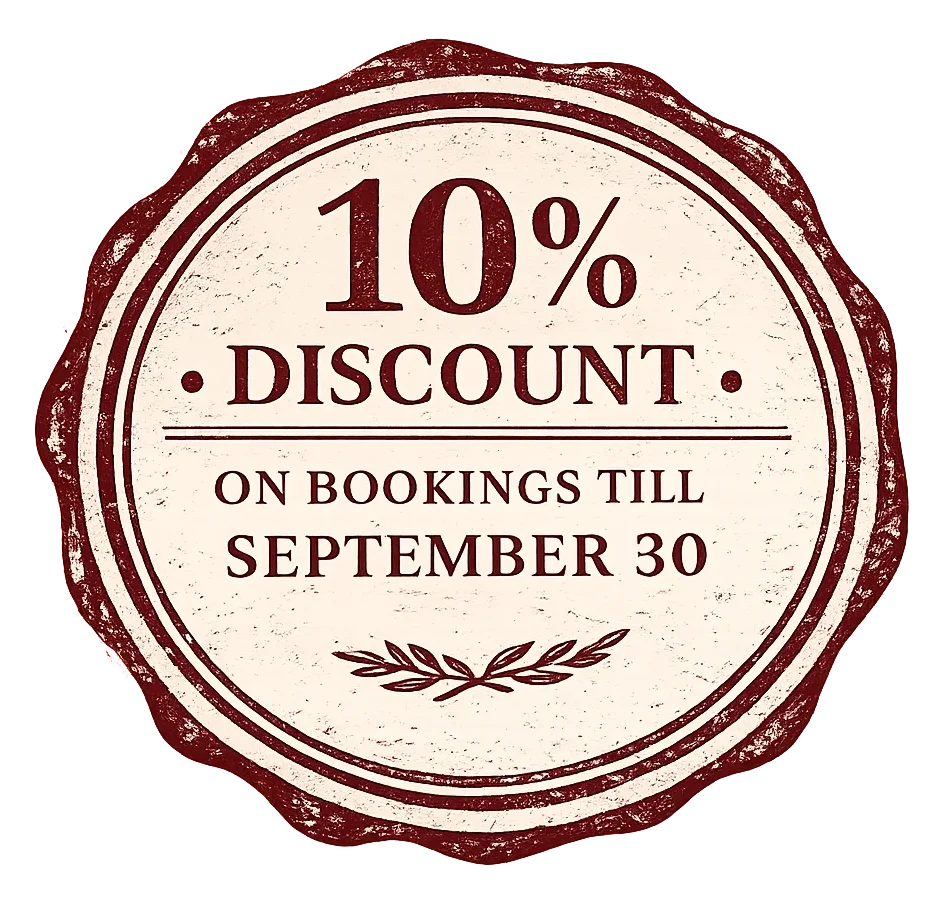
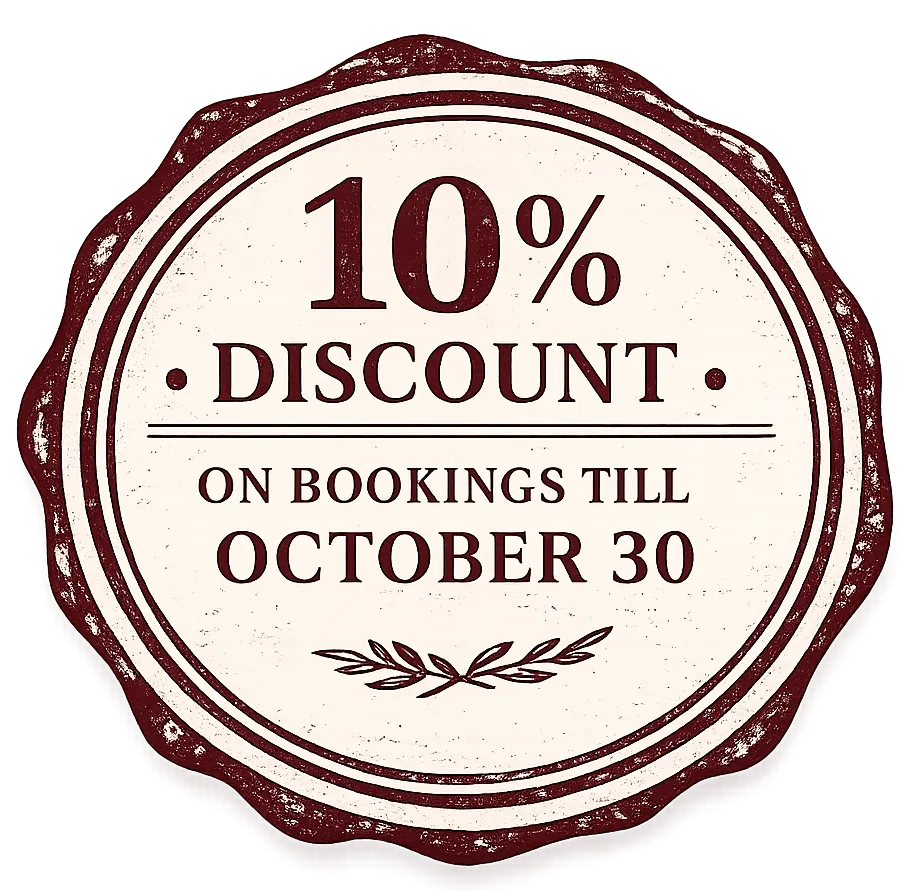
feat: implement service worker for asset caching and add About component with decorative stamp link

diff --git a/src/components/About.jsx b/src/components/About.jsx
@@ -73,7 +73,13 @@ export default function About() {
                     <p className="text-sm font-medium text-forest mt-0.5">Director of Rediscover Tourism Limited, UK</p>
                   </div>
                   <p>
-                    My name is Vini and I am the director of Rediscover Tourism Limited. I am the customer acquisition agent for Blue Spice Limited, which is a well established travel agency in India. I will be your main point of contact in the UK. I will be helping you with travel advice and itineraries along with Nimish, the director of Blue Spice travel. I love travelling, and I have been fortunate enough to visit different parts of India. I also enjoy mindfulness and meditation, having learned this at an ashram in South India. I also enjoy playing tennis and badminton in my spare time, and I am an avid dog lover.
+                    My name is Vinesh and I am an NRI based in the UK. I am a doctor by background and have held a British passport for the last 20 years. During my time here, I have travelled extensively throughout the UK and Europe. I have visited major cities including London, Edinburgh, Manchester, the Scottish Highlands and Wales.
+                  </p>
+                  <p>
+                    Of all these cities, I like London the best as it is one of the most beautiful cities in the world. It has a fantastic vibrant atmosphere and is full of historic sites dating back to William The Conqueror in the 11th century and historic buildings like the Big Ben and Buckingham Palace. It also has a very immersive cultural scene with numerous world class museums like the National Art Gallery and the Tate Museum. It has exciting zoos, aquariums and parks perfect for families. The nightlife of London is unparalleled, and it boasts a lot of live music in pubs and numerous dance clubs. For culinary lovers, it has an interesting mix of multi cuisine food from all over the world.
+                  </p>
+                  <p>
+                    I will be more than happy to greet you at the airport and accompany and guide you on your holiday through this world famous city. I look forward to welcoming you and gifting you an unforgettable holiday.
                   </p>
                 </div>
 

diff --git a/public/sw.js b/public/sw.js
@@ -1,4 +1,4 @@
-const CACHE_NAME = 'mywellbeing-cache-v17';
+const CACHE_NAME = 'mywellbeing-cache-v18';
 const ASSETS_TO_CACHE = [
   '/',
   '/index.html',